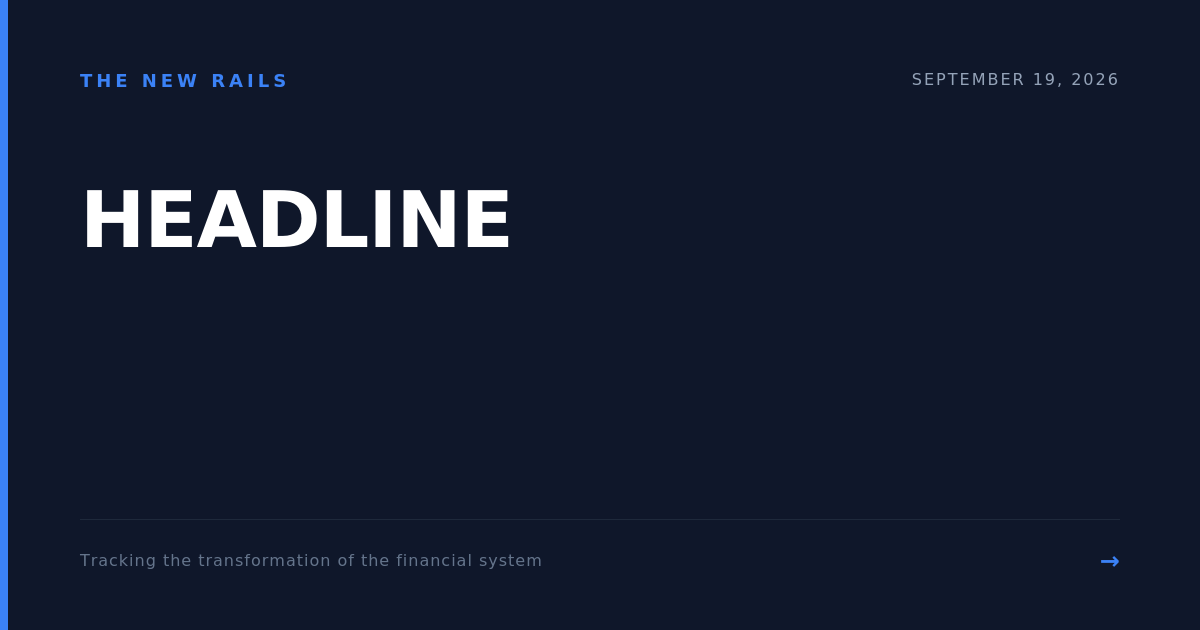
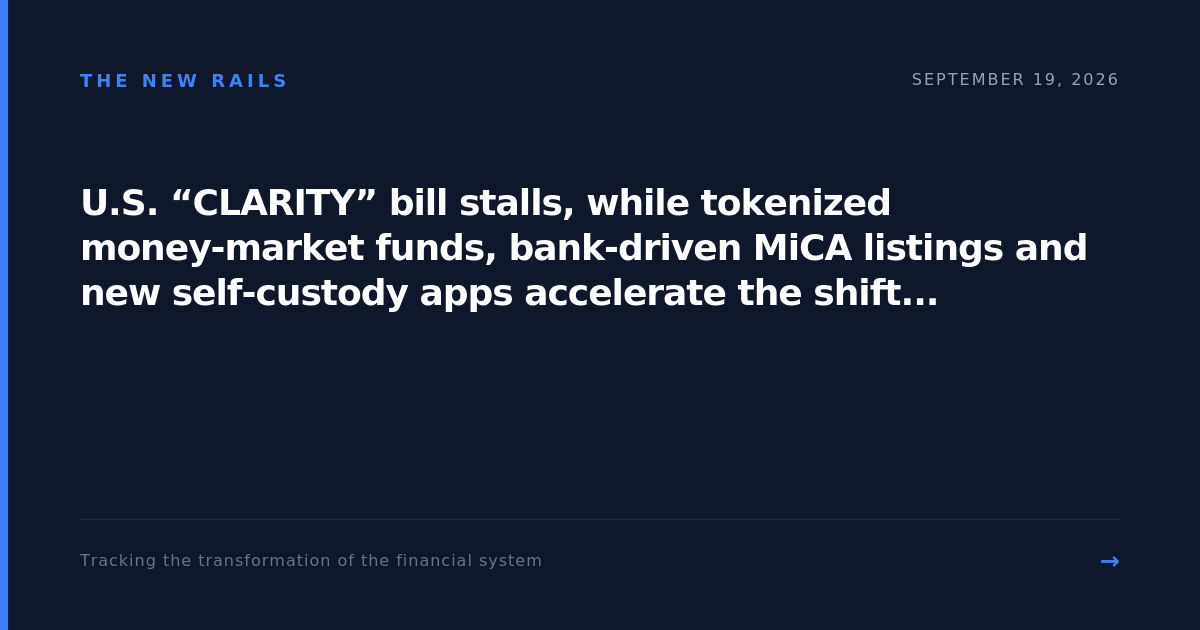
Daily financial system draft + header 2026-09-19

Changed region(s): [[0.0617, 0.3016, 0.925, 0.5127]]

diff --git a/draft_20260919.md b/draft_20260919.md
@@ -1,59 +1,58 @@
-**HEADLINE**  
-U.S. single‑stock futures, EU MiCA expansion, and tokenized money‑market funds signal a rapid shift from legacy banking to hybrid crypto‑enabled finance  
+**Headline**  
+U.S. “CLARITY” bill stalls, while tokenized money‑market funds, bank‑driven MiCA listings and new self‑custody apps accelerate the shift from legacy banking to a hybrid crypto‑finance ecosystem.  
 
 ---
 
-### WHAT HAPPENED  
+### What happened  
 
-- **OG.com cleared for U.S. single‑stock futures** – Crypto.com’s sister exchange, OG.com, received conditional approval from the U.S. Securities and Exchange Commission to list perpetual futures on individual equities. The SEC’s decision, announced by Crypto.com CEO Kris Marszalek, makes OG.com the first crypto‑focused platform to offer U.S. investors a bridge between traditional equity exposure and on‑chain perpetual contracts. (CoinTelegraph)
+**U.S. legislative setback** – The “Crypto‑Linked Asset‑Recovery and Transparency (CLARITY) Act,” which would have created a federal framework for tracing and recovering illicit crypto assets, missed a crucial Senate vote.  According to *CoinTelegraph*, Democrats are still demanding amendments, and the window for passage is closing fast.  The bill is not dead, but its future is uncertain.  
 
-- **CLARITY Act stalls in the Senate** – The bipartisan “Crypto‑Linked Asset‑Based Regulation and Innovation” (CLARITY) Act failed a key vote in the Senate. Democrats are demanding additional consumer‑protection language, and the bill’s sponsors have only a narrow window before the current congressional session ends. (CoinTelegraph)
+**Tokenized money‑market fund expands** – WisdomTree’s $1.2 bn WTGXX tokenized money‑market fund is now being used by MoonPay to back its stablecoin reserves.  The partnership, reported by *CoinTelegraph*, is aimed at giving U.S. retail investors broader exposure to a regulated, yield‑producing crypto product.  
 
-- **WisdomTree and MoonPay tokenise a $1.2 bn money‑market fund** – WisdomTree’s WTGXX fund will be issued as a blockchain‑native token. MoonPay plans to hold the token as part of its stablecoin‑reserve strategy and to use the tokenised vehicle to give U.S. retail investors easier access to a regulated money‑market product. (CoinTelegraph)
+**World Money’s self‑custody super‑app** – The fintech startup World launched a self‑custodial “super app” that bundles stablecoin payments, digital‑asset rewards and on‑ramp trading in more than 150 countries.  *CoinTelegraph* notes the app is positioned as a one‑stop shop for consumers who want to hold and spend crypto without a traditional bank intermediary.  
 
-- **World launches a self‑custodial “super app”** – World Money, a self‑custodial wallet that bundles stablecoin payments, digital‑asset rewards, and on‑chain trading, has gone live in more than 150 jurisdictions. The app is positioned as a “one‑stop shop” for consumers who want to move money without a traditional bank. (CoinTelegraph)
+**Binance’s MiCA stance** – Binance brushed off speculation that European Central Bank chief Christine Lagarde was intervening in its Greek MiCA (Markets in Crypto‑Assets) licensing bid.  The exchange reaffirmed its commitment to obtain a European licence, *CoinTelegraph* says.  
 
-- **Binance rebuffs MiCA speculation** – Amid rumors that European Central Bank President Christine Lagarde had intervened in Binance’s Greek MiCA application, the exchange said the reports were inaccurate and reiterated its commitment to securing a full EU operating licence. (CoinTelegraph)
+**dtcpay’s $25 m Series A** – Japan’s SBI Group led a $25 million financing round for stablecoin payments platform dtcpay.  The funds will be used to grow its merchant network and develop new payment products, according to *CoinTelegraph*.  
 
-- **dtcpay raises $25 m from SBI Group** – The Japanese‑backed stablecoin payments platform closed a Series A round led by SBI, earmarked for expanding its merchant network and building additional payment products. (CoinTelegraph)
+**HYPE token spikes** – The HYPE token reached an all‑time high of $90.92 after Hyperliquid introduced manual borrowing, allowing users to leverage stablecoins against HYPE and Bitcoin collateral.  *CoinTelegraph* reported the move pushed the token to a record level.  
 
-- **HYPE token hits $90+ after Hyperliquid adds manual borrowing** – Hyperliquid introduced a manual borrowing feature that lets users take stablecoins against HYPE or Bitcoin collateral. The new product drove the HYPE token to an all‑time high of $90.92. (CoinTelegraph)
+**Banks on the EU MiCA register** – Banks now account for roughly 23 % of providers listed on the European Securities and Markets Authority’s MiCA register, up from about 12 % in June.  *CoinTelegraph* attributes the rise to a wave of traditional institutions seeking regulated crypto‑service licences.  
 
-- **Banks double their presence on the EU MiCA provider register** – According to ESMA data, banks now account for roughly 23 % of the entities listed on the MiCA register, up from about 12 % in late June. The growth reflects a concerted push by traditional lenders to enter the regulated crypto‑service market in Europe. (CoinTelegraph)
-
----
-
-### THE BIGGER PICTURE  
-
-**Rebuilding the “rails” between capital markets and digital assets**  
-All eight stories revolve around a single trend: the financial‑services “rails” that once moved only cash, securities, and payments through banks are being retrofitted to carry tokenised assets and on‑chain contracts. OG.com’s approval to list single‑stock perpetual futures is a concrete example of that retrofit in the United States. By allowing a crypto exchange to host equity‑linked derivatives, regulators are acknowledging that the same market‑making and clearing functions performed by CME or ICE can be replicated on a distributed‑ledger platform, provided the appropriate safeguards are in place.
-
-In Europe, the MiCA framework is doing the same work on the supply side. The surge in bank participation on the ESMA register shows that legacy institutions are no longer content to watch from the sidelines. They are applying for licences that let them offer custodial wallets, token‑issuance services, and even crypto‑exchange operations under a single regulatory umbrella. Binance’s public denial of ECB interference underscores how high‑profile the race has become: the market is watching for the first major crypto‑exchange to secure a full EU licence.
-
-**Winners and losers in the emerging hybrid ecosystem**  
-
-- **Winners** –  
-  1. **Tech‑forward banks and payment groups** (e.g., SBI, traditional banks entering MiCA) gain new revenue streams by packaging tokenised products for retail and corporate clients.  
-  2. **Crypto‑native platforms that secure regulatory clearance** (OG.com, Binance, Hyperliquid) can attract institutional capital that previously stayed out of the space due to compliance risk.  
-  3. **Asset managers that tokenise existing funds** (WisdomTree) unlock liquidity and broaden distribution, especially among younger investors who prefer on‑chain access.  
-
-- **Losers** –  
-  1. **Legacy payment rails that remain closed to crypto** (e.g., U.S. ACH networks) risk marginalisation as merchants and consumers adopt stablecoin‑based solutions like dtcpay.  
-  2. **Regulatory proposals that stall** (the CLARITY Act) may leave a gap in U.S. policy that could be filled by state‑level or foreign regulations, creating a fragmented compliance landscape.  
-  3. **Pure‑play crypto exchanges without a clear regulatory pathway** could see market share erode if banks and hybrid platforms capture the bulk of institutional demand.
-
-**Old system vs. new system** – The traditional banking model relies on a centralized ledger, a single point of custody, and a regulated clearinghouse. The emerging model distributes custody (self‑custodial wallets like World Money), spreads clearing across smart contracts (perpetual futures on OG.com), and uses tokenised securities to bypass legacy depositories. The old system still holds the advantage of scale, brand trust, and established compliance infrastructure, but its advantage is eroding as regulators grant conditional approvals and as banks themselves become “crypto providers.” The new system’s advantage is speed, programmability, and access to a global, 24/7 market. The convergence we are witnessing suggests a future where the two rails operate side‑by‑side, with cross‑connectivity points (e.g., tokenised money‑market funds used as stablecoin reserves) becoming the norm rather than the exception.
+**Bitcoin rebounds** – Bitcoin climbed to $81,000 as U.S. 30‑year Treasury yields rose amid renewed oil‑price concerns.  The price move, covered by *CoinTelegraph*, underscores the cryptocurrency’s continued sensitivity to macro‑financial variables.  
 
 ---
 
-### WHAT TO WATCH  
+### The bigger picture  
 
-- **U.S. SEC final rulings on OG.com’s futures** – The SEC has granted conditional approval; a full licence or any subsequent restrictions are expected within the next 60 days. The outcome will set a precedent for other crypto exchanges seeking equity‑linked products.  
+All of these headlines are different facets of a single, accelerating rail‑rebuilding project: the convergence of regulated finance and crypto‑native services.  In the United States, the stalled CLARITY Act illustrates how legislative inertia can slow the creation of a clear, enforceable framework for digital assets.  The bill’s failure to pass means that, for now, law‑enforcement and compliance teams must continue to rely on a patchwork of existing AML/CTF rules, leaving a gap that private actors are eager to fill.  
 
-- **Legislative fate of the CLARITY Act** – A Senate amendment deadline is set for **October 15, 2026**. If the bill fails again, expect a shift toward state‑level crypto‑regulation or a push for a new federal framework.  
+In parallel, tokenized money‑market funds such as WisdomTree’s WTGXX are providing a bridge between traditional cash‑equivalent products and the crypto ecosystem.  By using a regulated, audited fund as reserve backing, MoonPay is giving stablecoin issuers a defensible source of liquidity that can satisfy both regulators and risk‑averse investors.  This model is likely to become a template for other “crypto‑linked” products, blurring the line between bank deposits and digital tokens.  
 
-- **Regulatory status of tokenised money‑market funds** – The SEC and the Federal Reserve are reviewing the tokenisation of regulated funds. Watch for any guidance or enforcement actions in the **Q4 2026** filing season, especially concerning the use of such tokens as stablecoin collateral.  
+European banks are moving from “watchers” to “providers” on the MiCA register, effectively rewriting the supply‑side of the market.  Their growing share—now one in four crypto‑service providers—means that legacy institutions are positioning themselves to capture the same client base that fintechs and exchanges have been courting.  For banks, the upside is access to high‑margin crypto‑custody and payment services; the downside is the operational and compliance burden of meeting EU‑wide standards.  
 
-- **EU MiCA licensing pipeline** – ESMA will publish the first batch of approved “crypto‑service providers” on **November 30, 2026**. The composition of that list—particularly the proportion of banks vs. pure‑play crypto firms—will indicate how quickly the European market is moving toward a hybrid model.  
+The launch of World Money’s self‑custodial super‑app and dtcpay’s SBI‑backed expansion show how consumer‑facing products are being built to operate outside traditional bank accounts.  By giving users direct control over private keys while still offering familiar payment flows, these platforms threaten the “bank‑as‑intermediary” model, especially in emerging markets where banking penetration is low.  At the same time, Binance’s insistence on securing a MiCA licence signals that even the largest crypto exchanges recognize the long‑term value of regulatory legitimacy in Europe.  
 
-- **Adoption metrics for self‑custodial super apps** – World Money claims rollout in 150+ countries; user‑growth data
+Finally, market‑price signals—Bitcoin’s rebound and HYPE’s record rally—remind strategists that macro forces still dominate crypto valuation.  Higher Treasury yields and oil‑price shocks are driving risk‑on and risk‑off flows, affecting both legacy assets and digital ones.  The fact that a leveraged token like HYPE can surge on a borrowing feature launch underscores the growing sophistication (and risk) of crypto‑based credit products.  
+
+**Winners:**  
+* Traditional banks that secure MiCA licences and launch regulated crypto services—capturing fee income and client stickiness.  
+* Asset managers that tokenise existing funds, providing compliant yield products for crypto users.  
+* Fintech platforms that combine self‑custody with fiat on‑ramps, expanding financial inclusion.  
+
+**Losers:**  
+* Crypto projects that rely on ambiguous regulatory environments—risking exclusion from mainstream markets.  
+* Legacy payment processors that fail to integrate stablecoins or tokenized assets, losing relevance to merchants.  
+* Investors who overlook the macro‑risk linkages between bond yields, commodity shocks and crypto prices.  
+
+Overall, the old system—characterised by siloed banking, fiat‑only payments and slow legislative change—is being reshaped into a hybrid architecture where regulated crypto products, self‑custody apps and bank‑driven licences coexist.  The balance of power is shifting toward institutions that can navigate both worlds.  
+
+---
+
+### What to watch  
+
+- **U.S. CLARITY Act timeline** – Expect a Senate committee hearing or amendment proposal within the next 4‑6 weeks; a vote before the end of the calendar year remains uncertain.  
+- **MiCA licence approvals** – Track the European Commission’s final decisions on Binance’s Greek application and other pending exchanges; the first quarter of 2027 should see the majority of licences granted.  
+- **Bank participation in tokenised funds** – Monitor quarterly disclosures from major banks (e.g., JPMorgan, Goldman) for any new token‑linked asset‑management products; early 2027 could bring the first U.S.‑based tokenised money‑market fund.  
+- **Stablecoin reserve composition** – Watch MoonPay’s quarterly reports for the share of WTGXX in its stablecoin backing; a rise above 30 % would signal broader acceptance of tokenised fund reserves.  
+- **Crypto‑credit product usage** – Follow Hyperliquid’s borrowing volume and HYPE’s price volatility; a sustained increase in leveraged stablecoin
